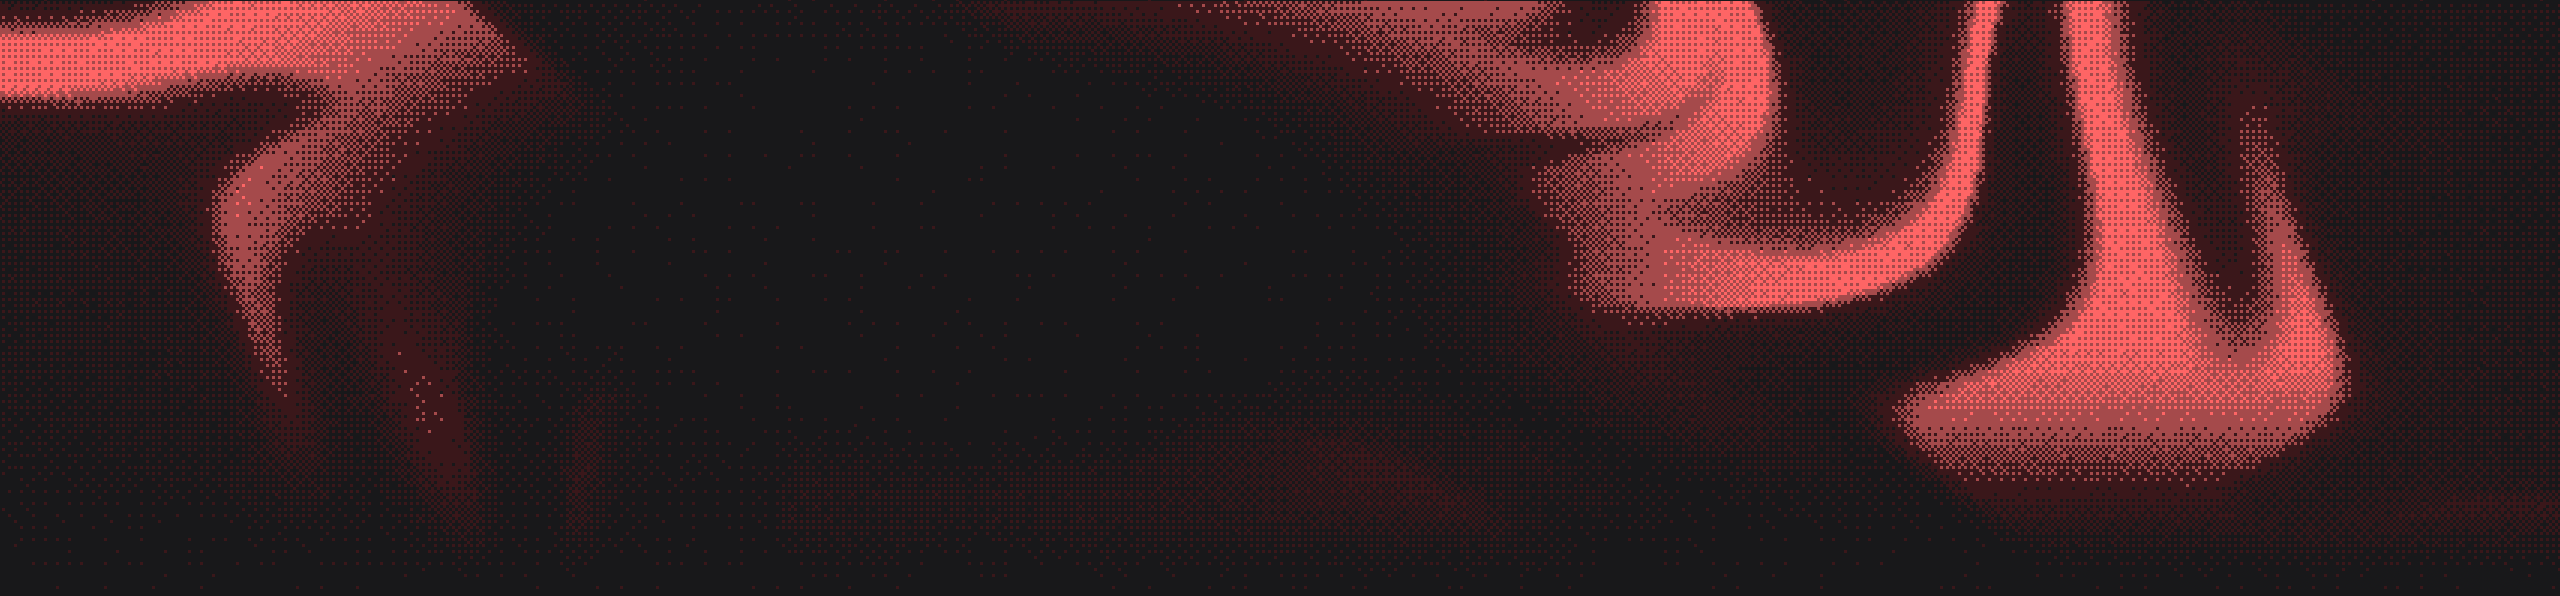
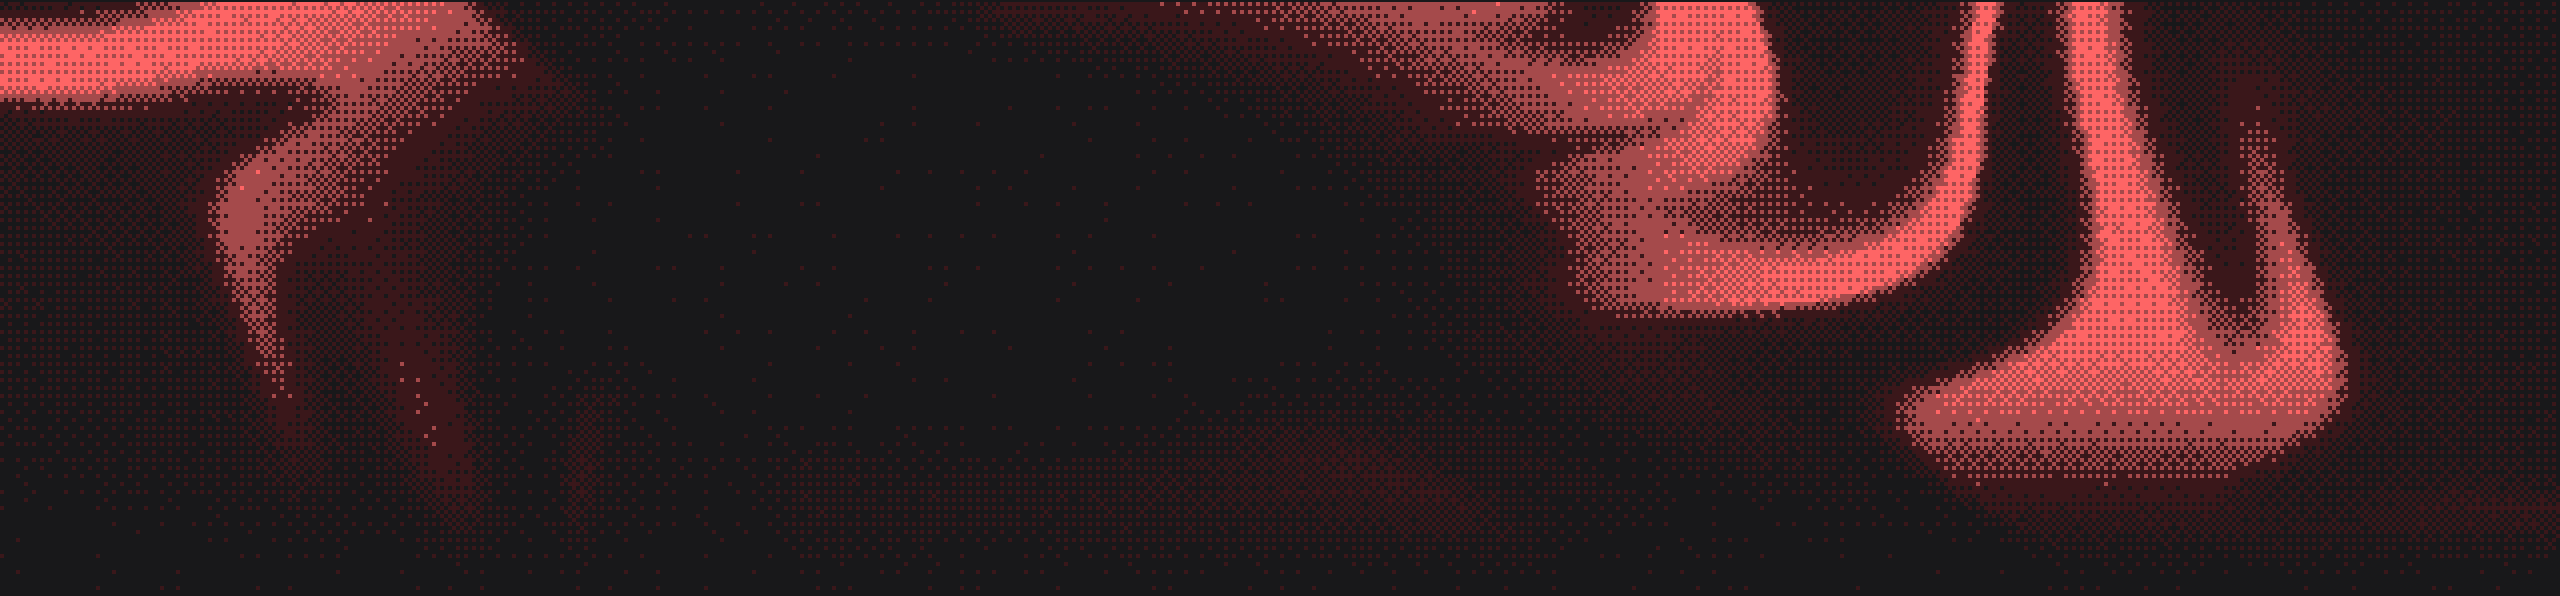
fix(hero): drop pxSize from about and colocation dither

Changed region(s): [[0.0, 0.0, 1.0, 0.9664]]

diff --git a/src/routes/about/+page.svelte b/src/routes/about/+page.svelte
@@ -87,7 +87,6 @@
         fadeBottom: 0.45,
         fadeTop: 0,
         intensity: 0.7,
-        pxSize: 3,
         scale: 2.2,
         seed: 22,
         shape: 2,

diff --git a/src/routes/colocation/+page.svelte b/src/routes/colocation/+page.svelte
@@ -92,7 +92,6 @@
         fadeBottom: 0.45,
         fadeTop: 0,
         intensity: 0.7,
-        pxSize: 3,
         scale: 2.2,
         seed: 47,
         shape: 2,
